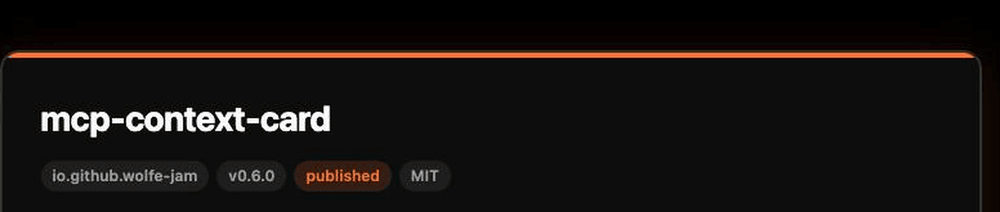
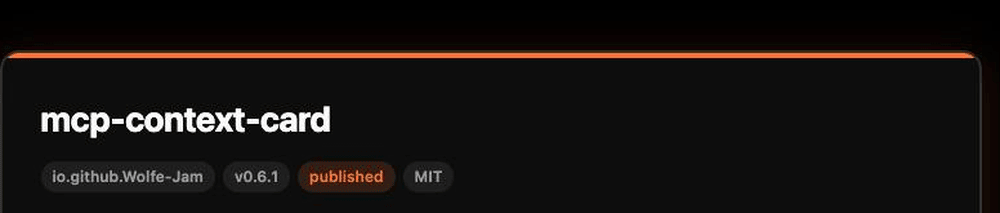
release: 0.6.1 — fix registry namespace casing + description length (#37)
* release: 0.6.1 — fix the registry namespace casing + description length

Two real bugs, both surfaced by the actual /pubaaif publish run against
0.6.0 (not a dry-run — the live registry rejected the first attempt,
and the live npm publish had already shipped the second wrong):

1. Publisher namespace was wrong-cased everywhere. Every _meta key,
   server.json.name, package.json.mcpName, and .well-known/fafa's
   vendor field used io.github.wolfe-jam (lowercase). The MCP Registry
   checks this byte-for-byte against the authenticated GitHub identity
   and rejected the publish: 403, "You have permission to publish:
   io.github.Wolfe-Jam/*. Attempting to publish:
   io.github.wolfe-jam/mcp-context-card." The real login is Wolfe-Jam
   (capital W, J) — the long-standing assumption that the registry
   lowercases GitHub logins for namespace purposes was wrong. Fixed at
   the source (src/identity.ts's META_NS) and every hand-duplicated
   copy (server.json, package.json, .well-known/fafa, tests, docs).
   The 0.6.0 tarball actually shipped this wrong.

2. server.json's description exceeded the registry's 100-char cap:
   422, "expected length <= 100" — ours was 263. Trimmed to 97.

Re-shot the 3 version-pill card images (vendor text + version both
changed). 102/102 tests, card:check + catalog:check green, vendor-neutral
sweep clean, dry-run 278.9 kB packed.

Claude-Session: https://claude.ai/code/session_01Aij9ReMwQeQTVSnYUZ4Qdt
[…]

Changed region(s): [[0.124, 0.7642, 0.465, 0.8774]]

diff --git a/test/identity.test.ts b/test/identity.test.ts
@@ -103,25 +103,25 @@ test("identity: malformed .fafa → null (whoami falls back)", () => {
 test("serverCardMeta: three publisher-namespaced keys — context is AGENTS.md/markdown", () => {
   const m = serverCardMeta();
   assert.deepEqual(Object.keys(m), [
-    "io.github.wolfe-jam.mcp-context-card/context",
-    "io.github.wolfe-jam.mcp-context-card/memory",
-    "io.github.wolfe-jam.mcp-context-card/identity",
+    "io.github.Wolfe-Jam.mcp-context-card/context",
+    "io.github.Wolfe-Jam.mcp-context-card/memory",
+    "io.github.Wolfe-Jam.mcp-context-card/identity",
   ]);
 
-  const ctx = m["io.github.wolfe-jam.mcp-context-card/context"];
+  const ctx = m["io.github.Wolfe-Jam.mcp-context-card/context"];
   assert.equal(ctx.source, "AGENTS.md");
   assert.equal(ctx.mediaType, "text/markdown");
   assert.equal((ctx as Record<string, unknown>).iana, undefined); // markdown needs no vnd anchor
 
-  const mem = m["io.github.wolfe-jam.mcp-context-card/memory"];
+  const mem = m["io.github.Wolfe-Jam.mcp-context-card/memory"];
   assert.equal(mem.mediaType, "application/vnd.fafm+yaml");
   assert.ok(mem.iana.startsWith("https://www.iana.org/assignments/media-types/"));
   assert.match(mem.note, /no de-facto standard/);
 
-  const id = m["io.github.wolfe-jam.mcp-context-card/identity"];
+  const id = m["io.github.Wolfe-Jam.mcp-context-card/identity"];
   assert.equal(id.mediaType, "application/vnd.fafa+yaml");
   assert.ok(id.iana.startsWith("https://www.iana.org/assignments/media-types/"));
 
   // no `one.faf/*` key anywhere — the wire is publisher-namespaced
-  assert.ok(Object.keys(m).every((k) => k.startsWith("io.github.wolfe-jam.mcp-context-card/")));
+  assert.ok(Object.keys(m).every((k) => k.startsWith("io.github.Wolfe-Jam.mcp-context-card/")));
 });

diff --git a/demo.ts b/demo.ts
@@ -30,7 +30,7 @@ async function connect(): Promise<Client> {
     command: process.execPath,
     args: ["--import", "tsx", join(here, "src/server.ts")],
   });
-  const client = new Client({ name: "demo-host", version: "0.6.0" }, { capabilities: {} });
+  const client = new Client({ name: "demo-host", version: "0.6.1" }, { capabilities: {} });
   await client.connect(transport);
   return client;
 }
@@ -78,7 +78,7 @@ console.log(`\n${line}\n3. IDENTITY — whoami() + the Server Card _meta block (
   const card = JSON.parse((cardRes.contents[0] as { text: string }).text);
   console.log(`\n· mcp-context-card://server-card → _meta keys: ${Object.keys(card._meta).join(", ")}`);
   for (const k of Object.keys(card._meta)) {
-    if (!k.startsWith("io.github.wolfe-jam.mcp-context-card/")) throw new Error(`unexpected _meta key: ${k}`);
+    if (!k.startsWith("io.github.Wolfe-Jam.mcp-context-card/")) throw new Error(`unexpected _meta key: ${k}`);
   }
   await client.close();
 }
@@ -103,7 +103,7 @@ console.log(`\n${line}\n4. DISCOVERY — list_context_sources(), then the same s
   await new Promise((r) => setTimeout(r, 50));
   const { port } = srv.address() as { port: number };
 
-  const httpClient = new Client({ name: "demo-host", version: "0.6.0" }, { capabilities: {} });
+  const httpClient = new Client({ name: "demo-host", version: "0.6.1" }, { capabilities: {} });
   await httpClient.connect(new StreamableHTTPClientTransport(new URL(`http://127.0.0.1:${port}/mcp`)));
   const tools = (await httpClient.listTools()).tools.map((t) => t.name);
   console.log(`· POST http://127.0.0.1:${port}/mcp → ${tools.length} tools: ${tools.join(", ")}`);

diff --git a/test/server.test.ts b/test/server.test.ts
@@ -50,12 +50,12 @@ test("server: the Server Card resource carries the _meta context block", async (
     const card = JSON.parse((res.contents[0] as { text: string }).text);
     assert.equal(card.name, "mcp-context-card");
     assert.deepEqual(Object.keys(card._meta), [
-      "io.github.wolfe-jam.mcp-context-card/context",
-      "io.github.wolfe-jam.mcp-context-card/memory",
-      "io.github.wolfe-jam.mcp-context-card/identity",
+      "io.github.Wolfe-Jam.mcp-context-card/context",
+      "io.github.Wolfe-Jam.mcp-context-card/memory",
+      "io.github.Wolfe-Jam.mcp-context-card/identity",
     ]);
-    assert.equal(card._meta["io.github.wolfe-jam.mcp-context-card/context"].source, "AGENTS.md");
-    assert.equal(card._meta["io.github.wolfe-jam.mcp-context-card/context"].mediaType, "text/markdown");
+    assert.equal(card._meta["io.github.Wolfe-Jam.mcp-context-card/context"].source, "AGENTS.md");
+    assert.equal(card._meta["io.github.Wolfe-Jam.mcp-context-card/context"].mediaType, "text/markdown");
   } finally {
     cleanup();
   }

diff --git a/test/e2e.test.ts b/test/e2e.test.ts
@@ -107,9 +107,9 @@ describe("e2e — real child process", () => {
       const res = await c.readResource({ uri: "mcp-context-card://server-card" });
       const card = JSON.parse((res.contents[0] as { text: string }).text);
       assert.deepEqual(Object.keys(card._meta), [
-        "io.github.wolfe-jam.mcp-context-card/context",
-        "io.github.wolfe-jam.mcp-context-card/memory",
-        "io.github.wolfe-jam.mcp-context-card/identity",
+        "io.github.Wolfe-Jam.mcp-context-card/context",
+        "io.github.Wolfe-Jam.mcp-context-card/memory",
+        "io.github.Wolfe-Jam.mcp-context-card/identity",
       ]);
       await c.close();
     } finally {

diff --git a/docs/card-dark.html b/docs/card-dark.html
@@ -78,7 +78,7 @@ section:last-child{border-bottom:0}
 <main class="card">
   <div class="top">
     <h1>mcp-context-card</h1>
-    <div class="pills"><span class="pill">io.github.wolfe-jam</span><span class="pill">v0.6.0</span><span class="pill accent">published</span><span class="pill">MIT</span></div>
+    <div class="pills"><span class="pill">io.github.Wolfe-Jam</span><span class="pill">v0.6.1</span><span class="pill accent">published</span><span class="pill">MIT</span></div>
   </div>
   <section>
     <p class="label">Context — AGENTS.md</p>

diff --git a/docs/card-light.html b/docs/card-light.html
@@ -78,7 +78,7 @@ section:last-child{border-bottom:0}
 <main class="card">
   <div class="top">
     <h1>mcp-context-card</h1>
-    <div class="pills"><span class="pill">io.github.wolfe-jam</span><span class="pill">v0.6.0</span><span class="pill accent">published</span><span class="pill">MIT</span></div>
+    <div class="pills"><span class="pill">io.github.Wolfe-Jam</span><span class="pill">v0.6.1</span><span class="pill accent">published</span><span class="pill">MIT</span></div>
   </div>
   <section>
     <p class="label">Context — AGENTS.md</p>

diff --git a/docs/card.html b/docs/card.html
@@ -78,7 +78,7 @@ section:last-child{border-bottom:0}
 <main class="card">
   <div class="top">
     <h1>mcp-context-card</h1>
-    <div class="pills"><span class="pill">io.github.wolfe-jam</span><span class="pill">v0.6.0</span><span class="pill accent">published</span><span class="pill">MIT</span></div>
+    <div class="pills"><span class="pill">io.github.Wolfe-Jam</span><span class="pill">v0.6.1</span><span class="pill accent">published</span><span class="pill">MIT</span></div>
   </div>
   <section>
     <p class="label">Context — AGENTS.md</p>

diff --git a/docs/index.html b/docs/index.html
@@ -78,7 +78,7 @@ section:last-child{border-bottom:0}
 <main class="card">
   <div class="top">
     <h1>mcp-context-card</h1>
-    <div class="pills"><span class="pill">io.github.wolfe-jam</span><span class="pill">v0.6.0</span><span class="pill accent">published</span><span class="pill">MIT</span></div>
+    <div class="pills"><span class="pill">io.github.Wolfe-Jam</span><span class="pill">v0.6.1</span><span class="pill accent">published</span><span class="pill">MIT</span></div>
   </div>
   <section>
     <p class="label">Context — AGENTS.md</p>

diff --git a/test/transport.test.ts b/test/transport.test.ts
@@ -10,9 +10,9 @@ import { createServer, SERVER_CARD_URI } from "../src/server.js";
 import { fixture } from "./helpers.js";
 
 const META_KEYS = [
-  "io.github.wolfe-jam.mcp-context-card/context",
-  "io.github.wolfe-jam.mcp-context-card/memory",
-  "io.github.wolfe-jam.mcp-context-card/identity",
+  "io.github.Wolfe-Jam.mcp-context-card/context",
+  "io.github.Wolfe-Jam.mcp-context-card/memory",
+  "io.github.Wolfe-Jam.mcp-context-card/identity",
 ];
 
 let fx: ReturnType<typeof fixture>;

diff --git a/test/catalog-gen.test.ts b/test/catalog-gen.test.ts
@@ -7,7 +7,7 @@ import { buildCatalog } from "../src/catalog-gen.js";
 import { remember } from "../src/faf/parse-fafm.js";
 import { fixture } from "./helpers.js";
 
-const NS_IANA = "io.github.wolfe-jam.mcp-context-card/iana";
+const NS_IANA = "io.github.Wolfe-Jam.mcp-context-card/iana";
 
 test("buildCatalog: three sibling entries — context is AGENTS.md/markdown", () => {
   const { root, cleanup } = fixture();

diff --git a/src/identity.ts b/src/identity.ts
@@ -13,7 +13,7 @@ import { parseFafa } from "./faf/parse-fafa.js";
 import type { AgentIdentity } from "./faf/types.js";
 
 /** The `_meta` key namespace — the publisher's, reverse-DNS. */
-export const META_NS = "io.github.wolfe-jam.mcp-context-card";
+export const META_NS = "io.github.Wolfe-Jam.mcp-context-card";
 
 const iana = (t: string) => `https://www.iana.org/assignments/media-types/${t}`;
 

diff --git a/src/constants.ts b/src/constants.ts
@@ -1,5 +1,5 @@
 /** Server identity constants, in their own module so any file can import
  *  them without pulling in the whole server. */
 export const NAME = "mcp-context-card";
-export const VERSION = "0.6.0";
+export const VERSION = "0.6.1";
 export const SERVER_CARD_URI = "mcp-context-card://server-card";
